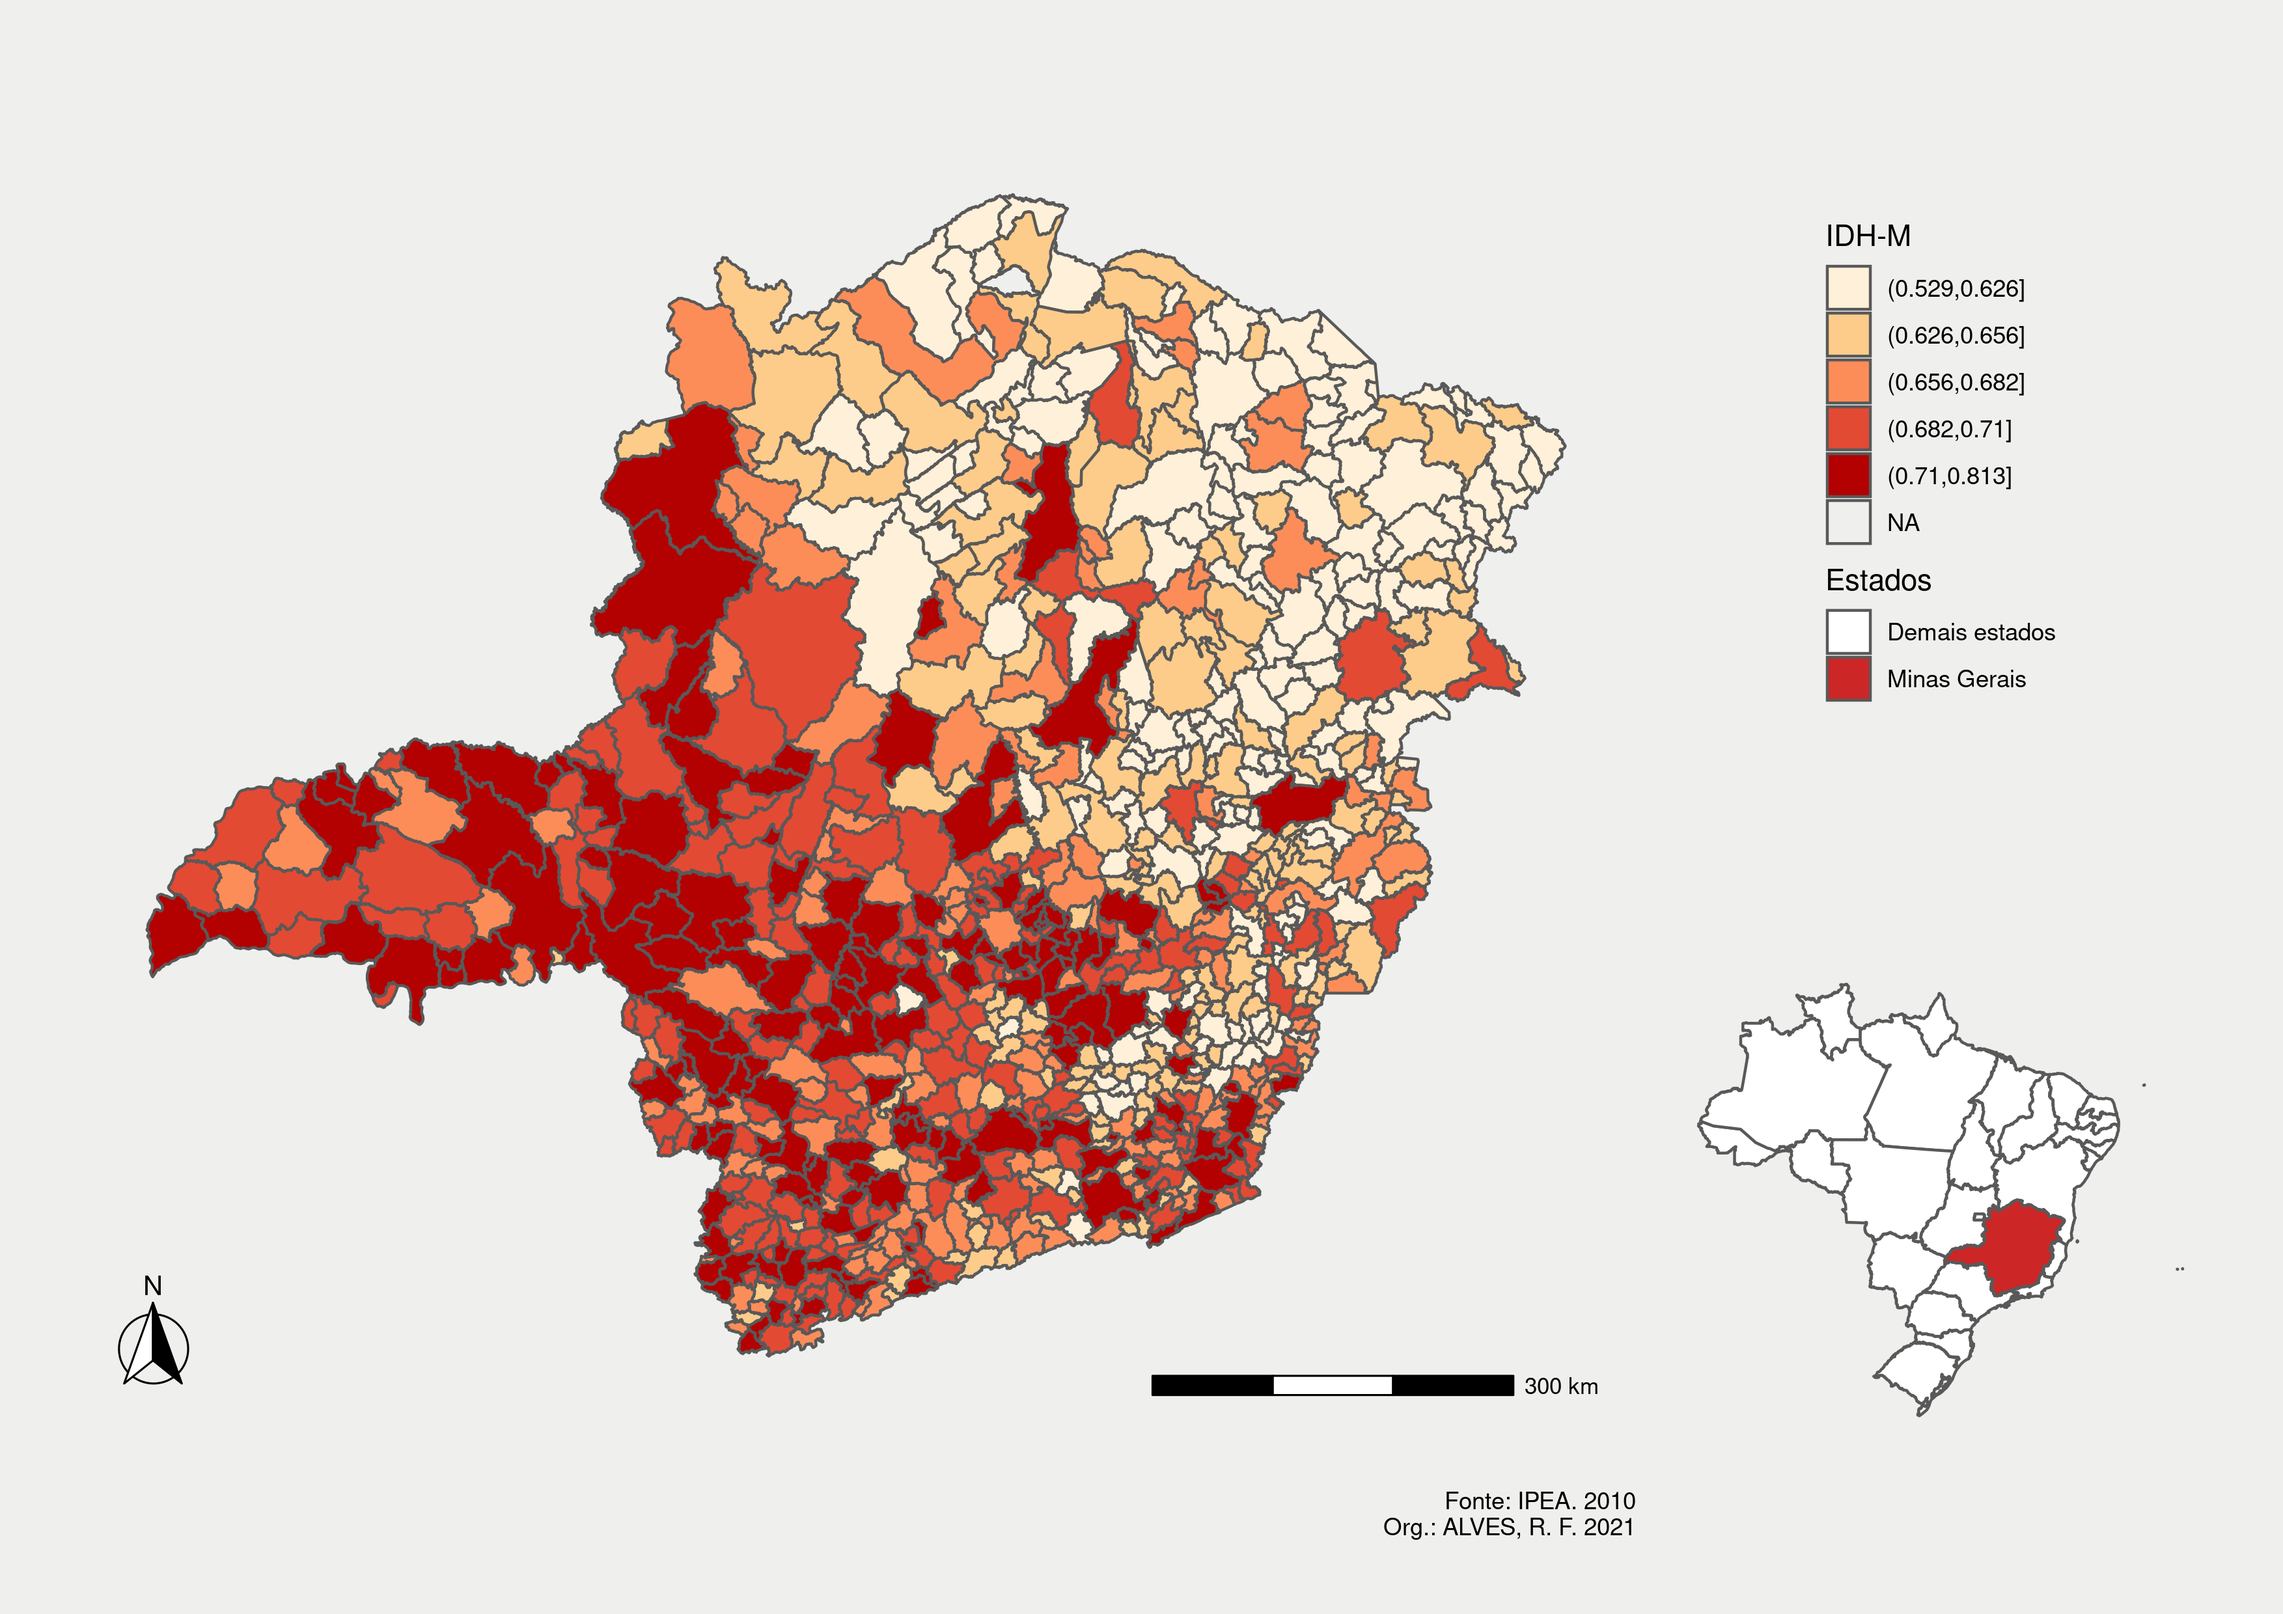
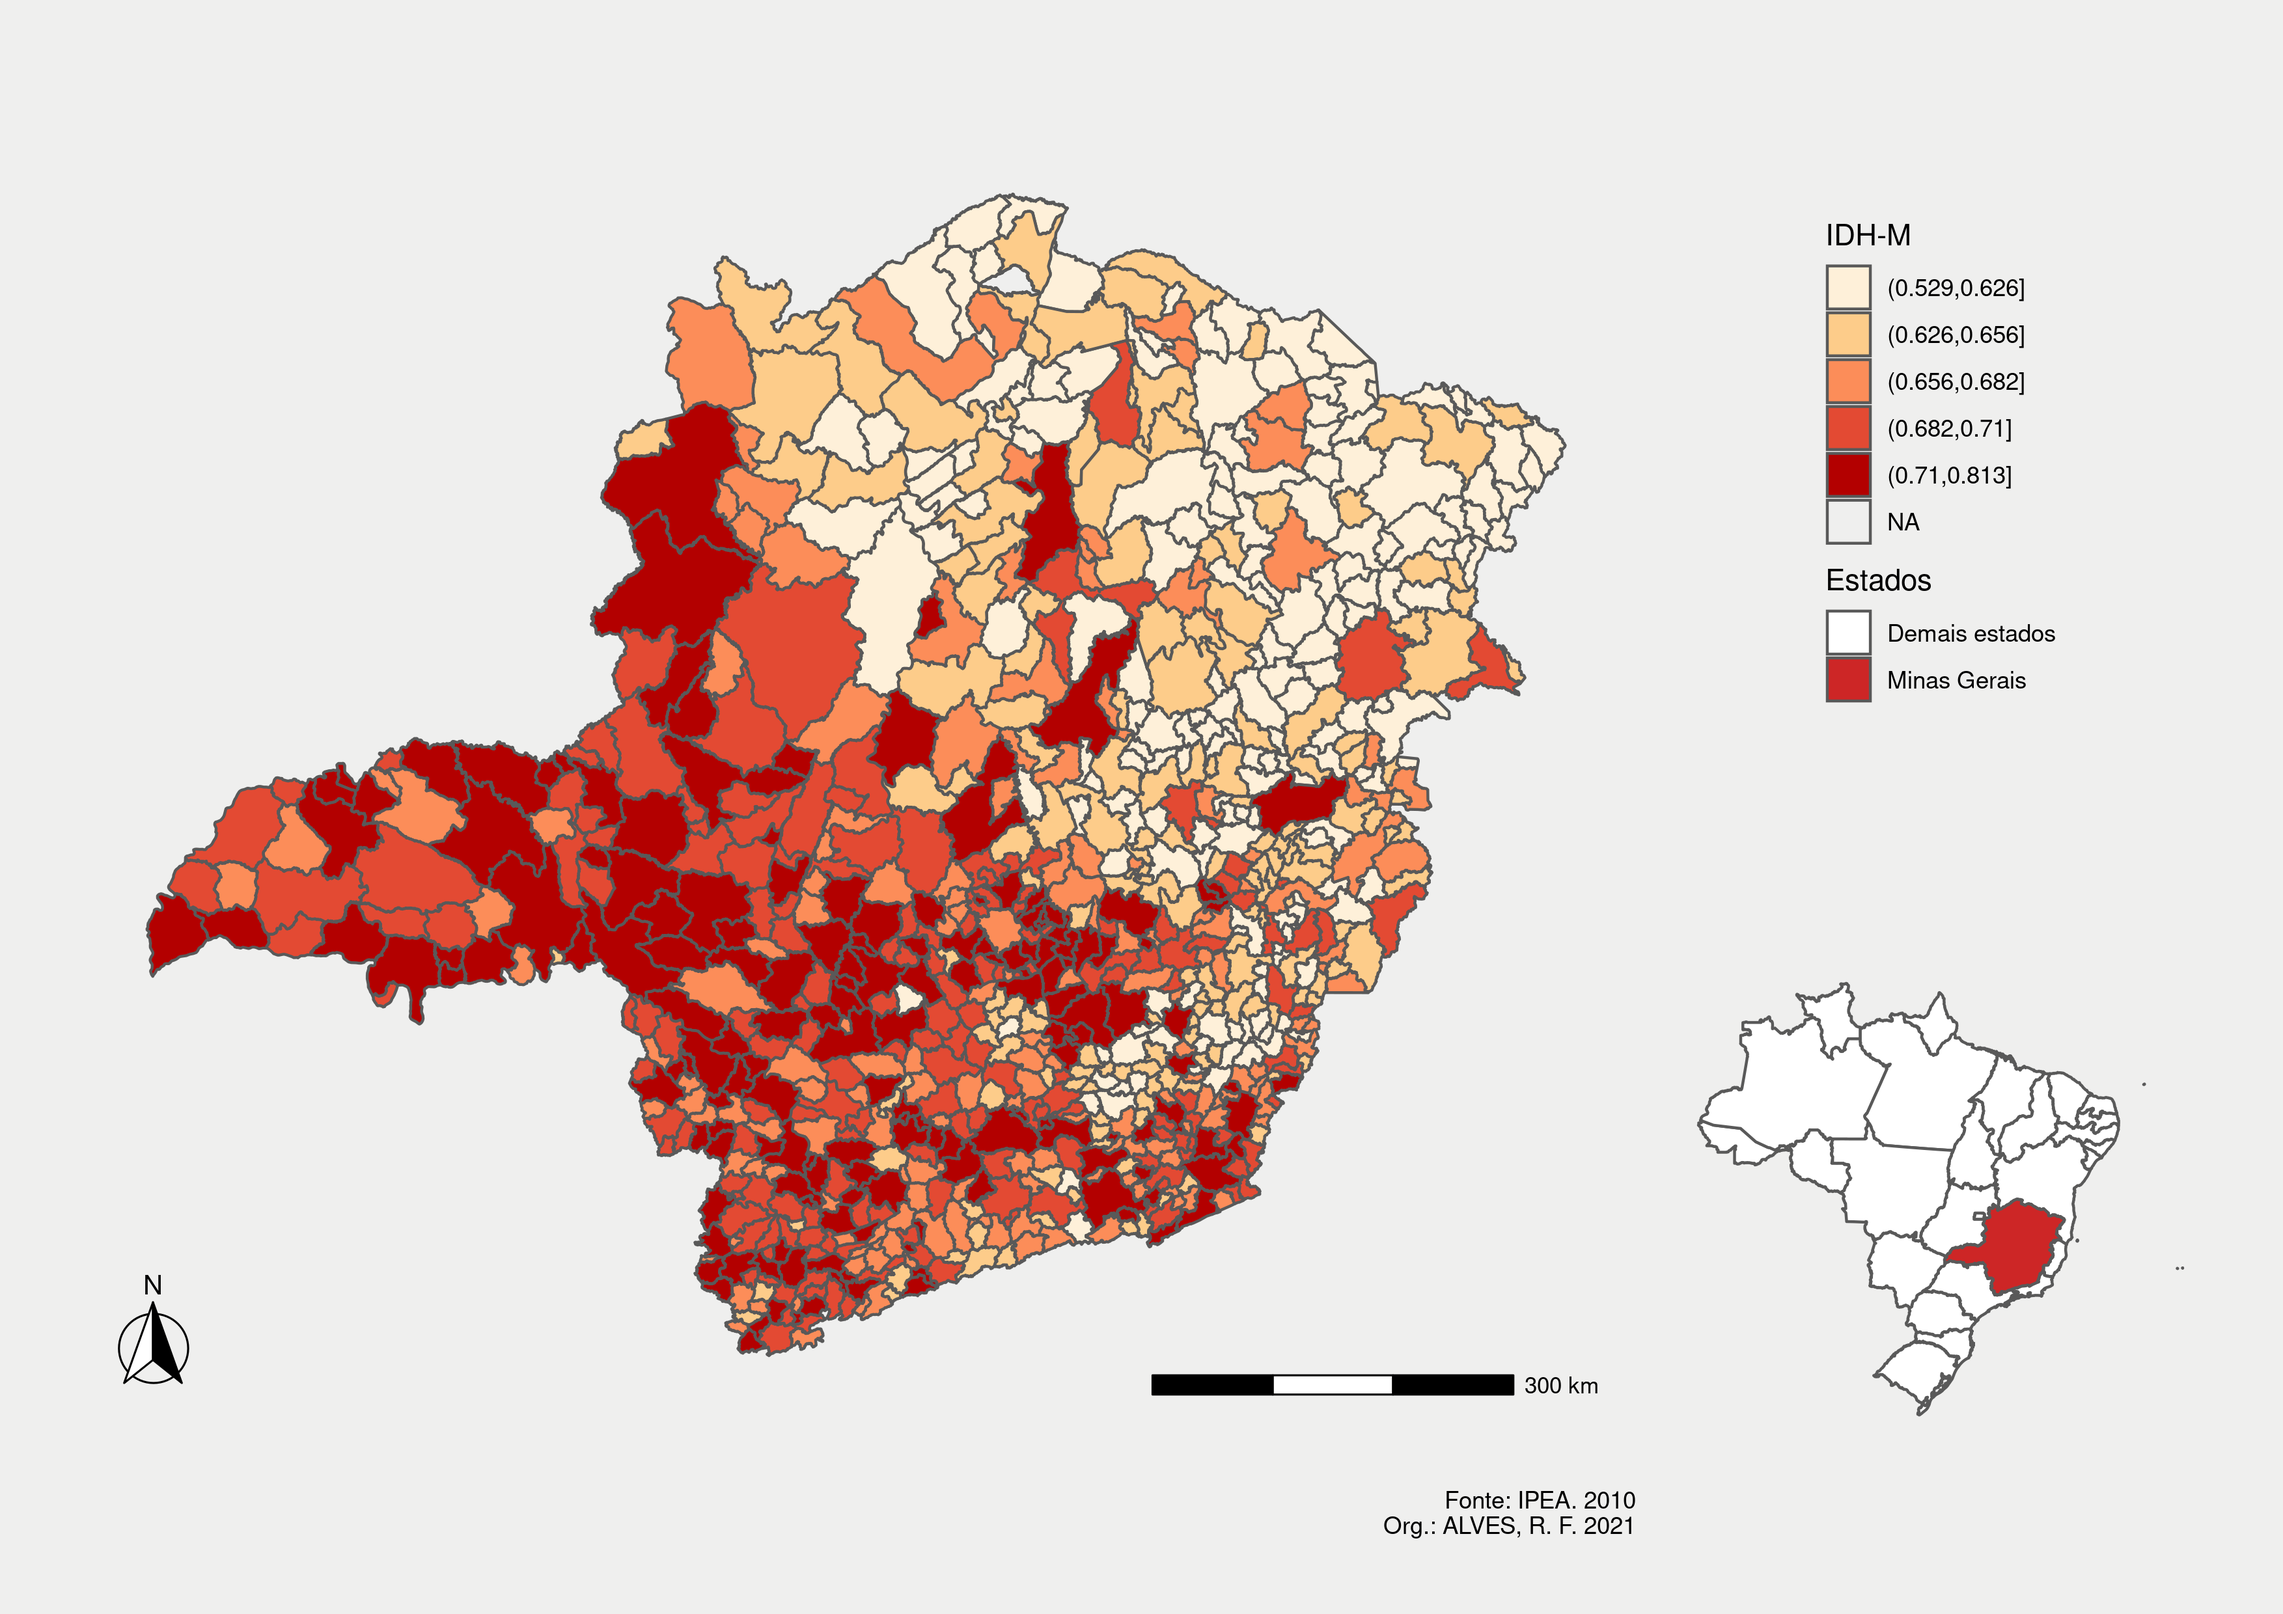
build github doc

diff --git a/README.md b/README.md
@@ -1,0 +1,115 @@
+Mapa do IDHM de Minas Gerais
+================
+
+``` r
+library(tidyverse)
+library(sf)
+library(patchwork)
+library(ggspatial)
+library(readxl)
+library(geobr)
+```
+
+``` r
+uf <- read_state(showProgress = FALSE)
+mun <- read_municipality(showProgress = FALSE)
+```
+
+``` r
+idhm <- read_xlsx("data/Atlas 2013_municipal, estadual e Brasil.xlsx", sheet = 2) %>%
+    filter(ANO == 2010, UF == 31) %>%
+    select(code_muni = Codmun7, IDHM)
+
+head(idhm)
+```
+
+    ## # A tibble: 6 x 2
+    ##   code_muni  IDHM
+    ##       <dbl> <dbl>
+    ## 1   3100104 0.689
+    ## 2   3100203 0.698
+    ## 3   3100302 0.654
+    ## 4   3100401 0.63 
+    ## 5   3100500 0.61 
+    ## 6   3100609 0.576
+
+``` r
+base <- inner_join(mun, idhm, "code_muni")
+
+head(base)
+```
+
+    ## Simple feature collection with 6 features and 5 fields
+    ## geometry type:  MULTIPOLYGON
+    ## dimension:      XY
+    ## bbox:           xmin: -47.67975 ymin: -20.45584 xmax: -42.04516 ymax: -17.7664
+    ## geographic CRS: SIRGAS 2000
+    ##   code_muni           name_muni code_state abbrev_state  IDHM
+    ## 1   3100104 Abadia Dos Dourados         31           MG 0.689
+    ## 2   3100203              Abaeté         31           MG 0.698
+    ## 3   3100302          Abre Campo         31           MG 0.654
+    ## 4   3100401             Acaiaca         31           MG 0.630
+    ## 5   3100500             Açucena         31           MG 0.610
+    ## 6   3100609            Água Boa         31           MG 0.576
+    ##                             geom
+    ## 1 MULTIPOLYGON (((-47.48345 -...
+    ## 2 MULTIPOLYGON (((-45.24166 -...
+    ## 3 MULTIPOLYGON (((-42.49664 -...
+    ## 4 MULTIPOLYGON (((-43.12231 -...
+    ## 5 MULTIPOLYGON (((-42.38168 -...
+    ## 6 MULTIPOLYGON (((-42.41357 -...
+
+``` r
+main_map <- base %>%
+    mutate(IDHM = cut(IDHM, quantile(IDHM, probs = seq(0, 1, by = .2)))) %>%
+    ggplot() +
+    geom_sf(aes(fill = IDHM), size = .5) +
+    scale_fill_brewer("IDH-M", palette = "OrRd") +
+    annotation_north_arrow(style = north_arrow_fancy_orienteering()) +
+    annotation_scale(pad_x = unit(140, "mm")) +
+    labs(caption = "Fonte: IPEA. 2010\nOrg.: ALVES, R. F. 2021")
+```
+
+``` r
+context_map <- uf %>%
+    mutate(estados = ifelse(code_state == "31", "Minas Gerais", "Demais estados")) %>%
+    ggplot() +
+    geom_sf(aes(fill = estados)) +
+    scale_fill_manual("Estados", values = c("white", "firebrick3"))
+```
+
+``` r
+layout <- c(
+    area(1, 2, 1, 59),
+    area(2, 1, 41, 1),
+    area(2, 60, 41, 60),
+    area(42, 2, 42, 59),
+    area(3, 3, 40, 43),
+    area(3, 45, 23, 58),
+    area(26, 45, 40, 58)
+)
+
+plot(layout)
+```
+
+![](README_files/figure-gfm/unnamed-chunk-7-1.png)<!-- -->
+
+``` r
+patch <- plot_spacer() + plot_spacer() + plot_spacer() + plot_spacer() +
+    main_map + guide_area() + context_map +
+    plot_layout(guides = "collect", design = layout) &
+    theme_void() +
+    theme(
+        plot.background = element_rect(fill = "#efefee", size = 0),
+        panel.background = element_rect(fill = "#efefee", size = 0)
+    )
+
+patch
+```
+
+![](README_files/figure-gfm/unnamed-chunk-8-1.png)<!-- -->
+
+``` r
+ggsave("plots/plot.png", patch, device = "png", width = 297, height = 210, units = "mm")
+ggsave("plots/plot.pdf", patch, device = "pdf", width = 297, height = 210, units = "mm")
+```
